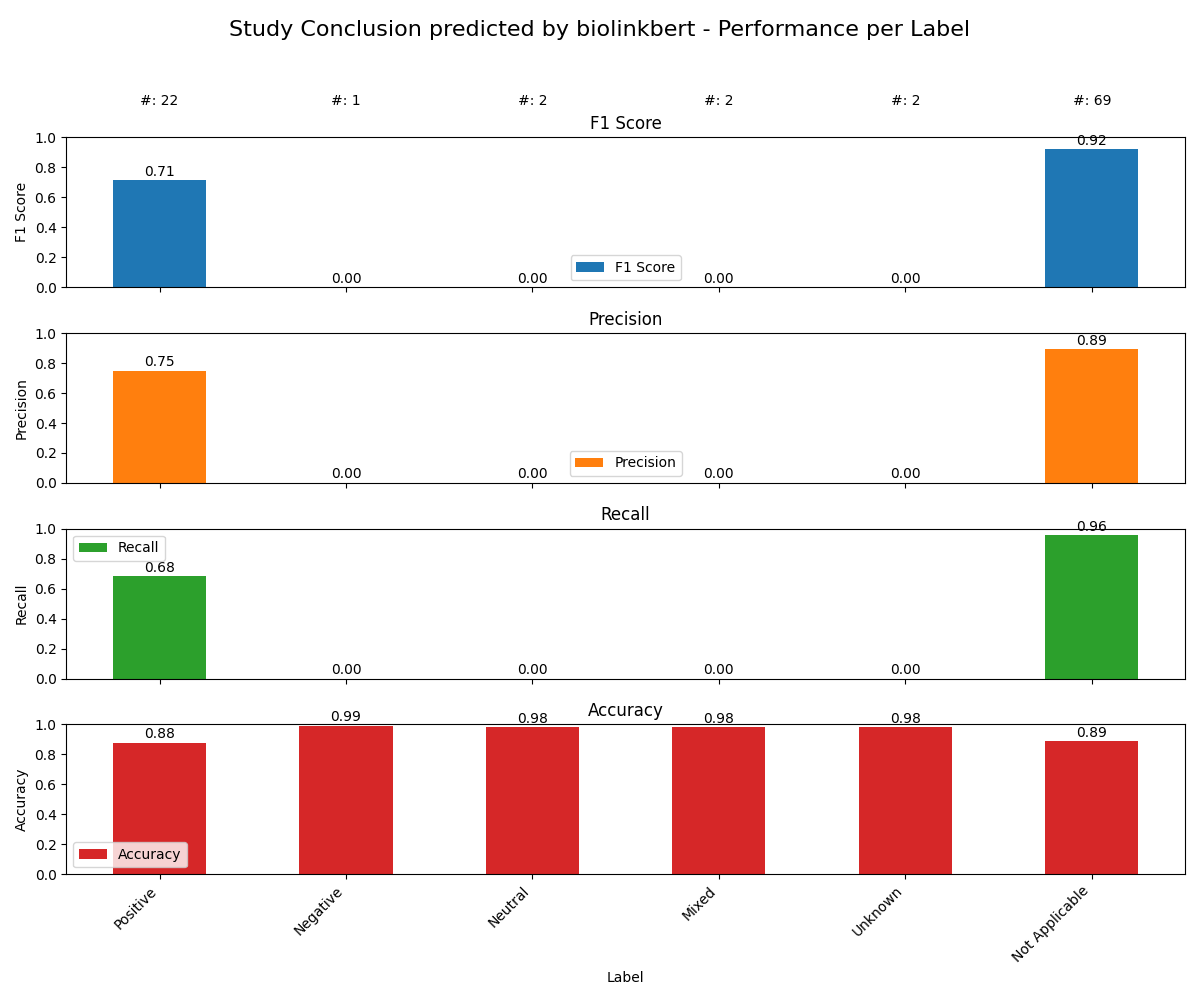
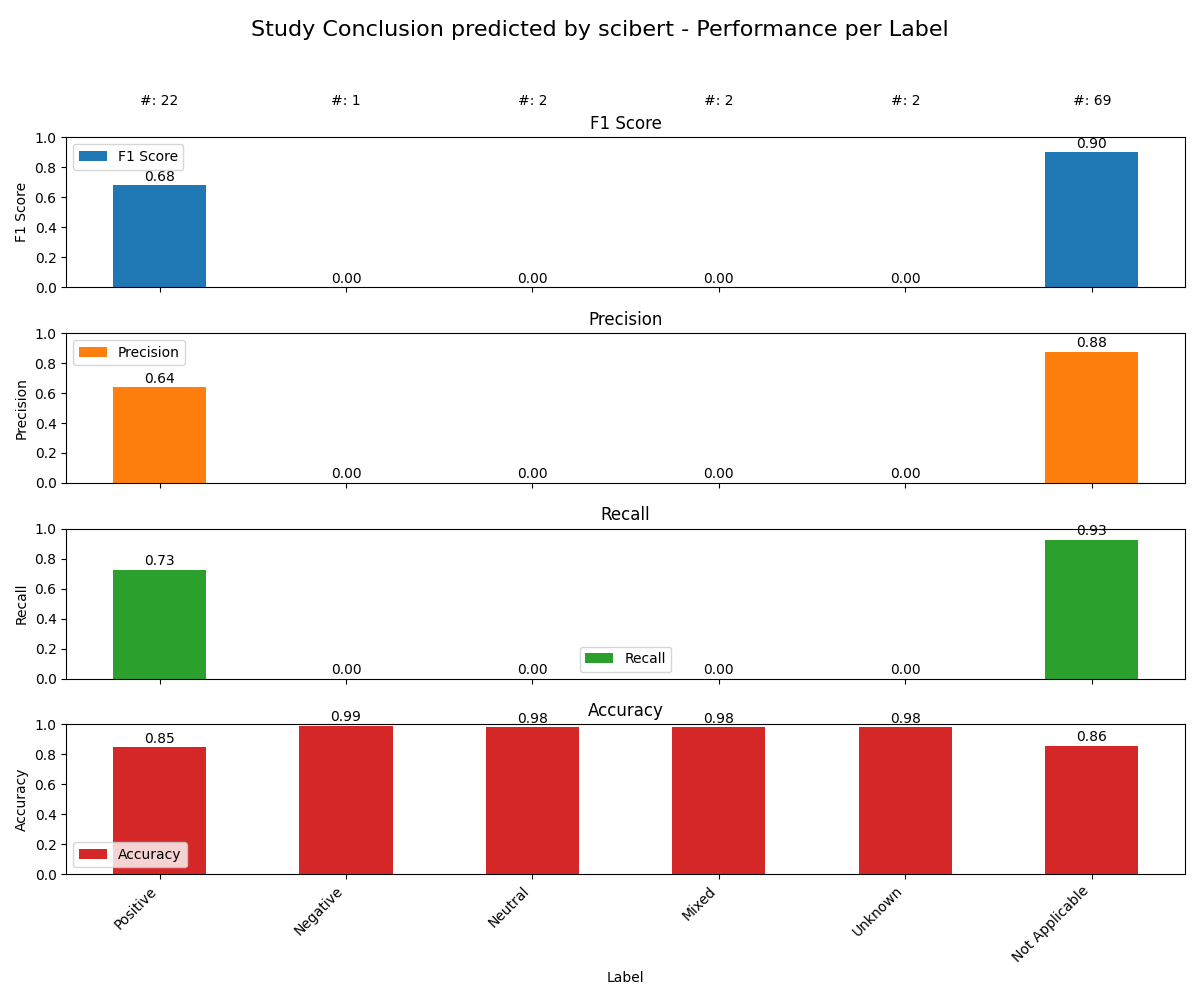
Update plots and evaluation with study type and study conclusion now being single label

diff --git a/model/analyse_performance.py b/model/analyse_performance.py
@@ -10,7 +10,7 @@ from sklearn.metrics import (
 import math
 
 
-EXPERIMENTS_PATH = "/home/vebern/scratch/PsyNamic/model/experiments"
+EXPERIMENTS_PATH = "/home/vebern/data/PsyNamic/model/experiments"
 DATE_PREFIX = "202502"  # Match folders with this prefix
 TASKS = [
     "Data Collection", "Data Type", "Number of Participants", "Age of Participants", "Application Form",
@@ -525,42 +525,51 @@ def plot_best_f1_scores(directory):
     plt.show()
 
 def main():
-    plot_best_f1_scores('/home/vera/Documents/Arbeit/CRS/PsychNER/model')
-    # save_dir = "model/performance_plots"
-    # task_model_performance = collect_metrics_all_tasks()
-    # plot_model_metric_all_tasks(task_model_performance,
-    #                             metrics=["F1", "Accuracy",
-    #                                      "Precision", "Recall"],
-    #                             save_dir=save_dir)
+    plot_best_f1_scores('/home/vebern/data/PsyNamic/model')
+    save_dir = "model/performance_plots"
+    task_model_performance = collect_metrics_all_tasks()
+    plot_model_metric_all_tasks(task_model_performance,
+                                metrics=["F1", "Accuracy",
+                                         "Precision", "Recall"],
+                                save_dir=save_dir)
+    # NOTE: precision-recall curves is outdated, as study type and study conclusion are no longer multilabel
     # best_models = plot_precision_recall_curve_all_tasks(
     #     task_model_performance, save_dir=save_dir)
-    # breakpoint()
-    # for task in TASKS:
-    #     task_key = task.lower().replace(" ", "_")
-    #     best_model = best_models[task_key]
-    #     model_path = find_model_path(task_key, best_model)
-    #     test_pred_file = os.path.join(
-    #         EXPERIMENTS_PATH, model_path, "test_predictions.csv")
-    #     checkpoints = [file for file in os.listdir(os.path.join(
-    #         EXPERIMENTS_PATH, model_path)) if 'checkpoint' in file]
+    for task in TASKS:
+        task_key = task.lower().replace(" ", "_")
+        df = pd.read_csv(os.path.join(
+            os.path.dirname(EXPERIMENTS_PATH), f"model_performance_{task_key}.csv"))
+        best_model = df.loc[df['F1'] == df['F1'].max()]['Model'].values
+        if len(best_model) > 1:
+            print(
+                f"\nMultiple models have the highest F1 score for task: {task}")
+        else:
+            best_model = best_model[0]
+        print(best_model)
+        # best_model = best_models[task_key]
+        model_path = find_model_path(task_key, best_model)
+        test_pred_file = os.path.join(
+            EXPERIMENTS_PATH, model_path, "test_predictions.csv")
+        checkpoints = [file for file in os.listdir(os.path.join(
+            EXPERIMENTS_PATH, model_path)) if 'checkpoint' in file]
 
-    #     config_file = os.path.join(
-    #         EXPERIMENTS_PATH, model_path, checkpoints[0], "config.json")
-    #     label_mapping = load_label_mapping(config_file)
-    #     params_file = os.path.join(
-    #         os.path.dirname(test_pred_file), "params.json")
-    #     with open(params_file, "r", encoding="utf-8") as f:
-    #         params = json.load(f)
-    #         is_multilabel = params.get("is_multilabel", True)
-    #     # Extract predictions
-    #     y_true, y_pred, _ = extract_predictions(test_pred_file, is_multilabel)
+        config_file = os.path.join(
+            EXPERIMENTS_PATH, model_path, checkpoints[0], "config.json")
+        label_mapping = load_label_mapping(config_file)
+        params_file = os.path.join(
+            os.path.dirname(test_pred_file), "params.json")
+        with open(params_file, "r", encoding="utf-8") as f:
+            params = json.load(f)
+            is_multilabel = params.get("is_multilabel", True)
+        # Extract predictions
+        y_true, y_pred, _ = extract_predictions(test_pred_file, is_multilabel)
 
-    #     # Generate per-label performance plots
-    #     plot_path = os.path.join(save_dir, f"performance_{task_key}.png")
-    #     plot_performance_per_label(
-    #         y_true, y_pred, label_mapping, plot_path, task, best_model)
+        # Generate per-label performance plots
+        plot_path = os.path.join(save_dir, f"performance_{task_key}.png")
+        plot_performance_per_label(
+            y_true, y_pred, label_mapping, plot_path, task, best_model)
 
-    #     print(f"Saved per-label performance plot for {task}: {plot_path}")
+        print(f"Saved per-label performance plot for {task}: {plot_path}")
 
 
 if __name__ == "__main__":
